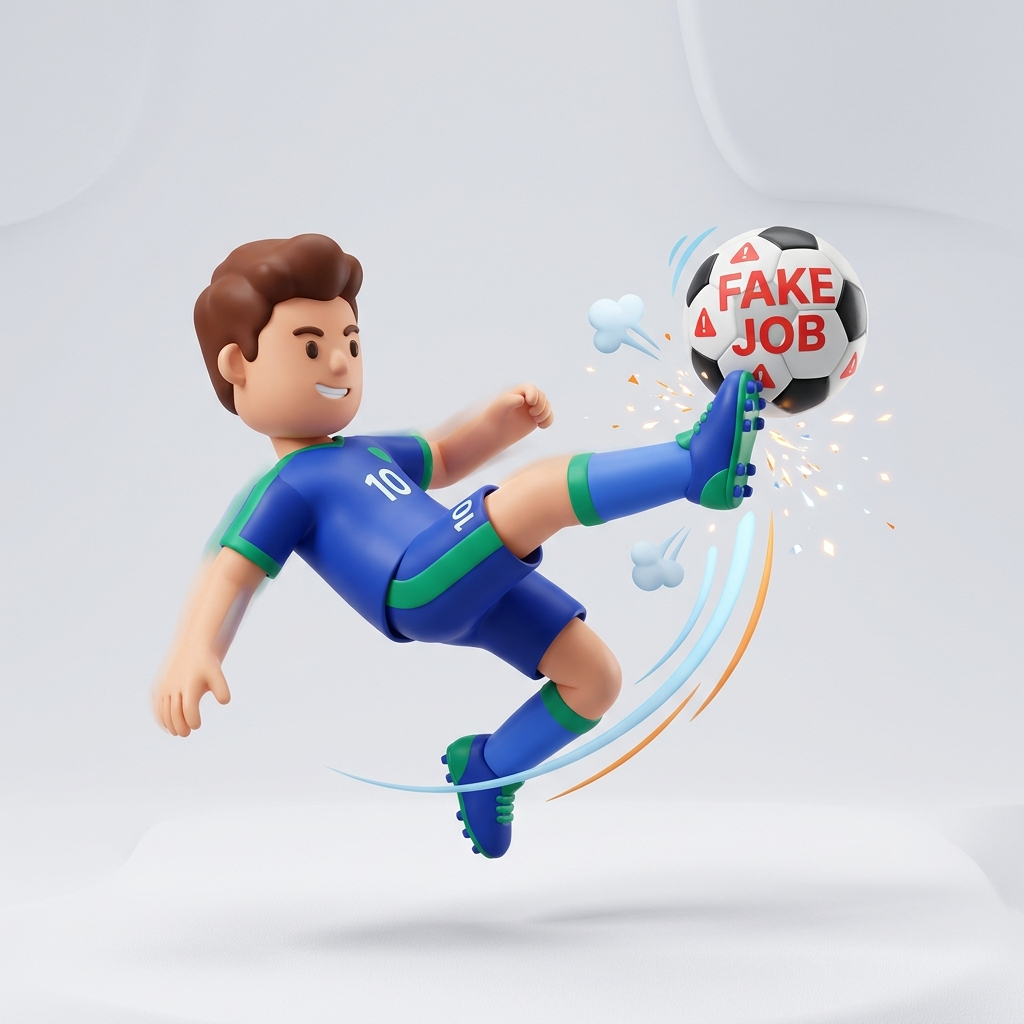
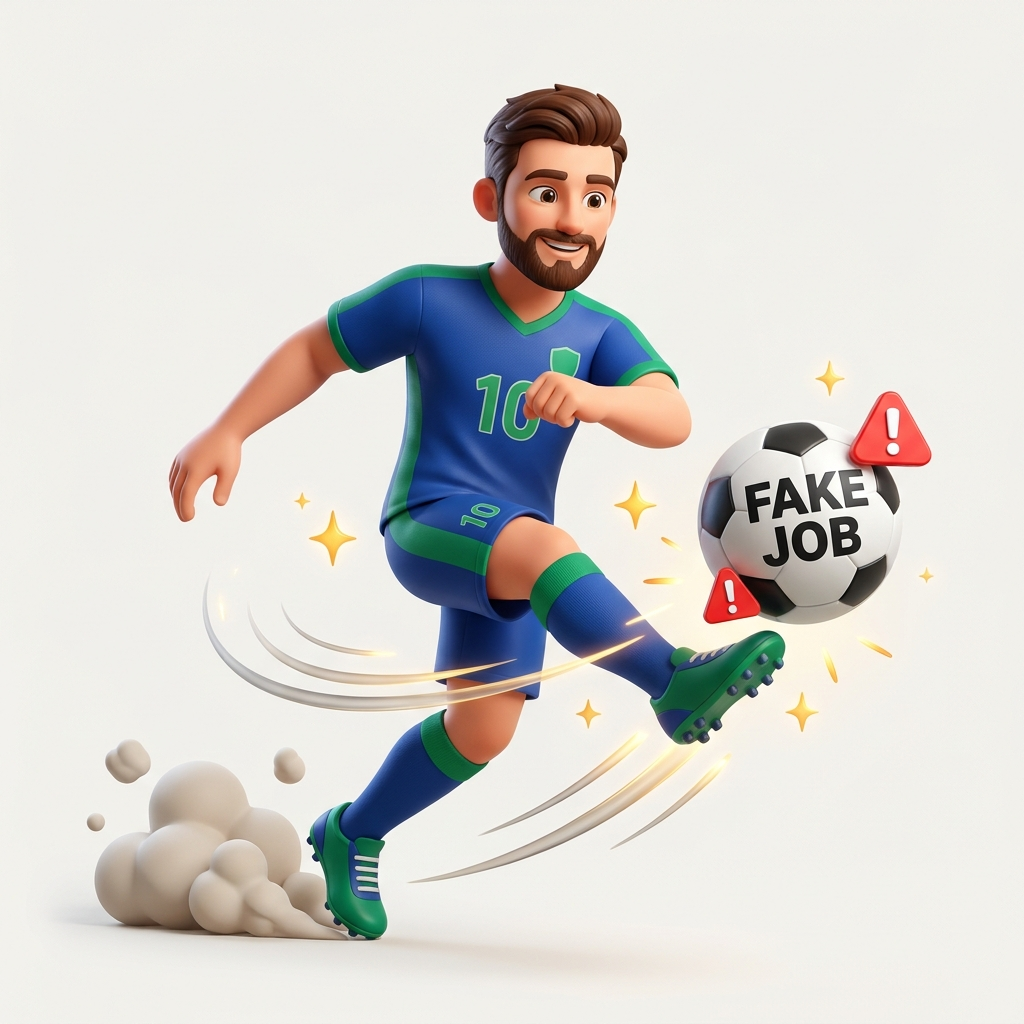
Update mascot character to Messi kicking fake job football

diff --git a/frontend/login.html b/frontend/login.html
@@ -41,10 +41,10 @@
             <!-- MASCOT ILLUSTRATION CARD -->
             <div class="auth-mascot-card">
                 <div class="auth-mascot-img-wrap">
-                    <img src="mascot.jpg" alt="StellenPrüfer Footballer kicking fake job ball">
+                    <img src="mascot.jpg" alt="Messi kicking fake job football">
                 </div>
                 <div class="auth-mascot-text">
-                    <h3>⚽ Scam Defense Squad</h3>
+                    <h3>⚽ GOAT Scam Defense</h3>
                     <p>Our intelligent verification engine hunts down fake job listings, spoofed recruiter domains, and ghost ads so your career journey stays protected.</p>
                 </div>
             </div>

diff --git a/frontend/register.html b/frontend/register.html
@@ -41,10 +41,10 @@
             <!-- MASCOT ILLUSTRATION CARD -->
             <div class="auth-mascot-card">
                 <div class="auth-mascot-img-wrap">
-                    <img src="mascot.jpg" alt="StellenPrüfer Footballer kicking fake job ball">
+                    <img src="mascot.jpg" alt="Messi kicking fake job football">
                 </div>
                 <div class="auth-mascot-text">
-                    <h3>⚽ Scam Defense Squad</h3>
+                    <h3>⚽ GOAT Scam Defense</h3>
                     <p>Our intelligent verification engine hunts down fake job listings, spoofed recruiter domains, and ghost ads so your career journey stays protected.</p>
                 </div>
             </div>

diff --git a/public/login.html b/public/login.html
@@ -41,10 +41,10 @@
             <!-- MASCOT ILLUSTRATION CARD -->
             <div class="auth-mascot-card">
                 <div class="auth-mascot-img-wrap">
-                    <img src="mascot.jpg" alt="StellenPrüfer Footballer kicking fake job ball">
+                    <img src="mascot.jpg" alt="Messi kicking fake job football">
                 </div>
                 <div class="auth-mascot-text">
-                    <h3>⚽ Scam Defense Squad</h3>
+                    <h3>⚽ GOAT Scam Defense</h3>
                     <p>Our intelligent verification engine hunts down fake job listings, spoofed recruiter domains, and ghost ads so your career journey stays protected.</p>
                 </div>
             </div>

diff --git a/public/register.html b/public/register.html
@@ -41,10 +41,10 @@
             <!-- MASCOT ILLUSTRATION CARD -->
             <div class="auth-mascot-card">
                 <div class="auth-mascot-img-wrap">
-                    <img src="mascot.jpg" alt="StellenPrüfer Footballer kicking fake job ball">
+                    <img src="mascot.jpg" alt="Messi kicking fake job football">
                 </div>
                 <div class="auth-mascot-text">
-                    <h3>⚽ Scam Defense Squad</h3>
+                    <h3>⚽ GOAT Scam Defense</h3>
                     <p>Our intelligent verification engine hunts down fake job listings, spoofed recruiter domains, and ghost ads so your career journey stays protected.</p>
                 </div>
             </div>
